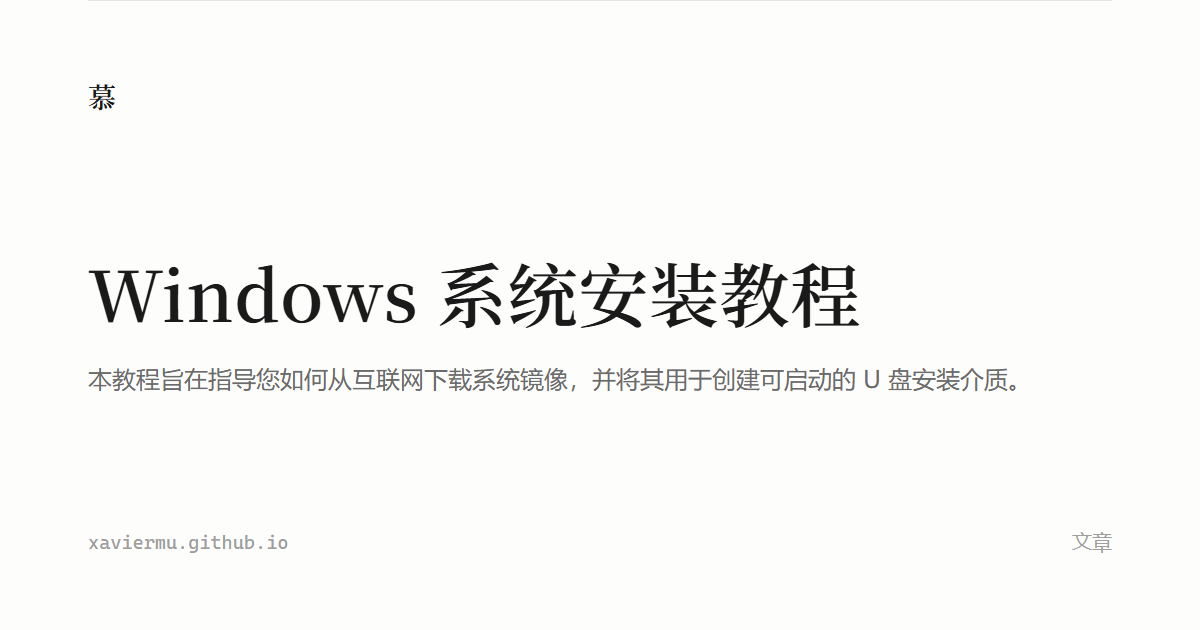
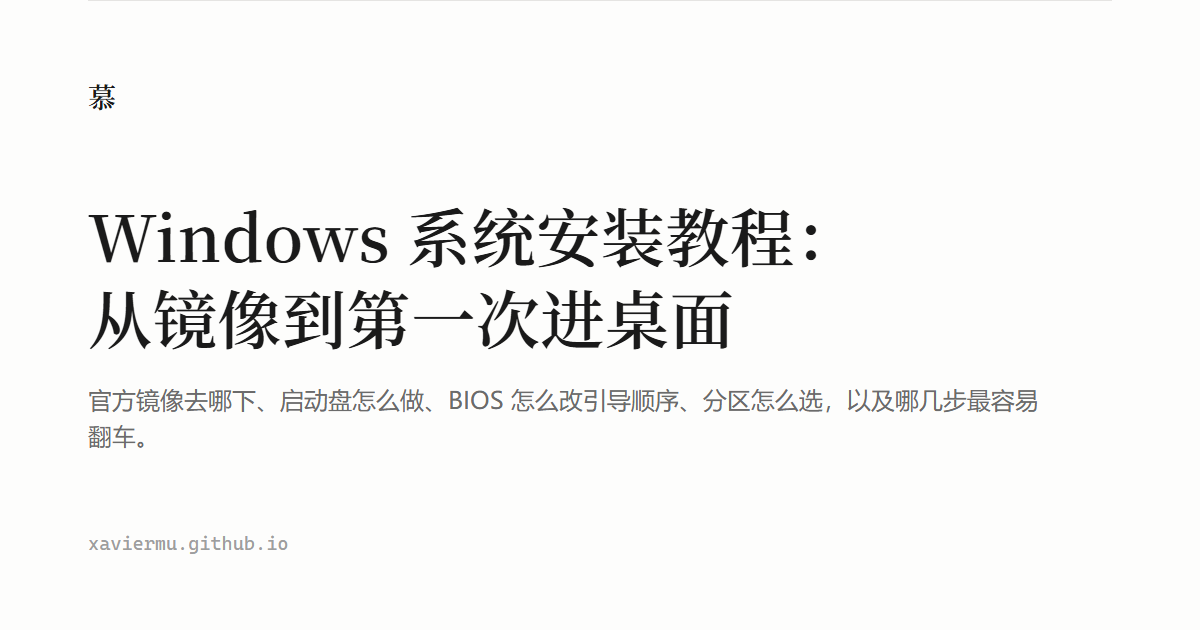
docs: 新增一篇戏谑体的『田野调查』
伪学术论文体例：摘要、症候分项、成因假说、参考文献。对象用缩写 LHT，正文所有症候、数据、引文均为虚构，文末有声明。同时补上缺失的 sdust-webvpn-guide 分享图，并重新生成三篇改了标题的文章的分享图。

Changed region(s): [[0.0617, 0.3317, 0.8633, 0.7238], [0.0617, 0.8444, 0.2467, 0.8746], [0.8942, 0.8444, 0.925, 0.8746]]

diff --git a/src/content/blog/lht-critique/index.md b/src/content/blog/lht-critique/index.md
@@ -1,0 +1,106 @@
+---
+title: "全方位批判 LHT：一份不太严谨的田野调查"
+description: "本文严格遵循学术规范：除研究对象、研究方法和研究结论外，其余部分均属虚构。"
+pubDate: 2026-11-09
+tags: ["随笔", "虚构"]
+---
+
+## 摘要
+
+本文以 LHT 为研究对象，采用参与式观察、蹲点守候、群聊记录爬取等方法，对其日常行为
+进行了为期数年的追踪。研究发现，LHT 在时间感知、决策效率、语言表达与执行力四个维度上
+表现出稳定的、可重复的异常模式。为便于讨论，本文将其统称为「LHT 综合征」。
+
+**关键词**：LHT；拖延；选择困难；「马上到」；装备与行动的相关性
+
+## 一、研究对象
+
+LHT，男，年龄不详（自称永远十八），职业不便透露（他自己也说不清）。首次观测于
+若干年前的一次聚会上，当时他迟到了四十分钟，进门第一句话是「我没迟到吧」。
+
+此后至今，该行为模式未见明显变化。
+
+## 二、主要症候
+
+### （一）时间感知系统故障
+
+LHT 的时间单位与常人不同。在他的坐标系里，「马上」的取值范围是 20 分钟到 3 小时，
+「快到了」表示尚未出门，「在路上」表示正在找钥匙。
+
+值得注意的是，他对别人的迟到极为敏感。「你怎么才来」是他最常说的一句话，
+而说这句话时，他通常已经让人等了半小时。
+
+### （二）决策回路过长
+
+一次外卖点单平均耗时 47 分钟。期间他会依次否掉麻辣烫（太辣）、黄焖鸡（昨天吃过）、
+沙拉（不顶饱）、汉堡（不健康），最终下单黄焖鸡。
+
+研究者曾尝试干预，方式是直接替他选。他的回应是「也行」，然后花二十分钟论证
+为什么这个选择不太行。
+
+### （三）语言的经济性
+
+LHT 的回复遵循极简主义。「哈哈哈哈」可以表示真的好笑，也可以表示「我没看」；
+「好」可以表示同意，也可以表示「我看到了，但我不打算同意」。
+
+唯一的例外是聊到他感兴趣的领域。此时他会连发十一条六十秒语音，并在最后一条补一句
+「反正你也不懂」。
+
+### （四）执行力与装备的相关性
+
+LHT 拥有健身卡一张（未激活）、跑鞋一双（九成新）、瑜伽垫一个（未拆封）、
+Kindle 一台（用于压泡面）。
+
+经测算，装备购置行为与实际行动之间的相关系数为 −0.83，即装备越齐全，行动越不频繁。
+该结论在多次重复观测中保持稳定。
+
+### （五）记忆的选择性
+
+LHT 能准确背出某款游戏里两百多件装备的属性数值、掉率和适用流派，却连续三年记错
+同住室友的籍贯。
+
+他对此的解释是「那不重要」。至于什么重要，他没有说。
+
+## 三、成因分析
+
+目前存在三种假说。
+
+**其一，硬件说。** LHT 的出厂配置中，时间模块与执行模块之间存在一处未修复的竞态条件。
+低负载时表现为轻微延迟，高并发时（比如同时被三个人催）会直接死锁。
+
+**其二，环境说。** 长期处于「反正也没人真生气」的环境中，系统逐渐学会了用拖延换取关注，
+并形成了正反馈循环。此说法的证据是：他每次迟到后的道歉都极为诚恳，且从不改进。
+
+**其三，哲学说。** LHT 或许真的相信，一件事只要还没开始，就还剩下无限种可能；
+一旦开始，就只剩下一种。拖延在此意义上是一种对可能性的保护。
+
+第三种说法由他本人提出。研究者认为这是狡辩，但不排除其具有一定的解释力。
+
+## 四、结论与建议
+
+综上，LHT 是一个在时间、决策、表达、执行四个维度上均表现出显著偏差的样本。
+
+但需指出，该样本在另外一些维度上是可靠的：借出去的钱会还，答应过的事（在足够多次
+催促之后）会做，喝多了会主动承认自己是傻逼。
+
+据此，本文的建议是：继续观测，暂不干预。毕竟身边若全是准时、果断、言出必行的人，
+日子会无聊很多。
+
+## 参考文献
+
+[1] LHT. 我真的马上到[Z]. 微信群, 2023.
+
+[2] LHT. 再等我五分钟[Z]. 微信群, 2024.
+
+[3] LHT. 这次真的出门了[Z]. 微信群, 2024.
+
+[4] 佚名. 关于 LHT 是否真的在路上的追踪调查[R]. 未刊稿.
+
+[5] LHT. 我没有拖延，我只是在思考[Z]. 口头陈述, 年份不详.
+
+## 声明
+
+本文为虚构创作。除「LHT」这一缩写外，文中所有症候、数据、引文均为编造，
+不对应任何真实人物或事件。
+
+若你恰好认识一位叫 LHT 的人，那纯属巧合；若你就是 LHT 本人，那……你先把外卖点了行吗。
